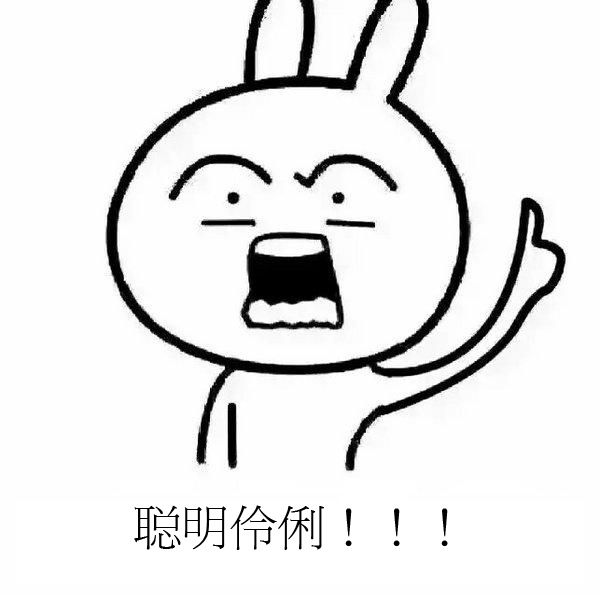
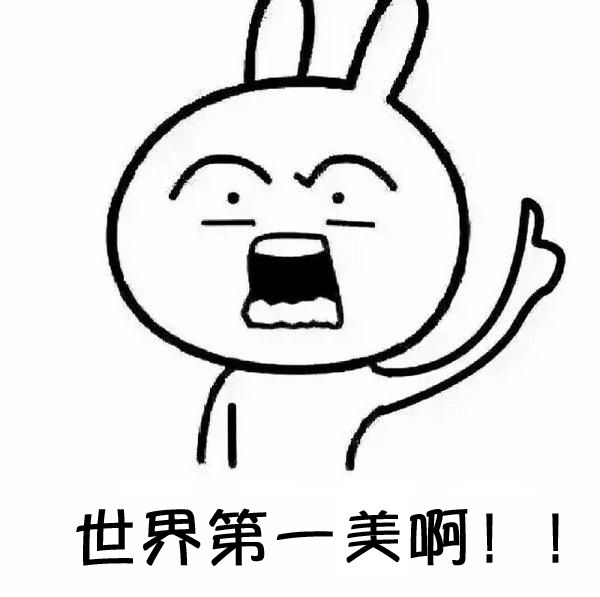
Add files via upload

Changed region(s): [[0.12, 0.8442, 0.78, 0.9648], [0.81, 0.8442, 0.84, 0.9648], [0.9, 0.8442, 0.93, 0.9347]]

diff --git a/index.html b/index.html
@@ -1,10 +1,10 @@
 <!DOCTYPE HTML>
 <html>
 <head>
-	<title>Sandra小姐姐</title>
+	<title>世界上最美的女人，是老吸</title>
 	<meta http-equiv="Content-Type" content="text/html; charset=utf-8" />
-	<meta name="keywords" content="七夕礼物，惊喜,有趣,最美" />
-	<meta name="description" content="Sandra小姐姐，但是她不喜欢我 ಥ_ಥ " />
+	<meta name="keywords" content="生日礼物，惊喜,有趣,最美" />
+	<meta name="description" content="世界上最美的女人，是老吸，但是她不喜欢我 ಥ_ಥ " />
 	<meta name="viewport" content="width=device-width, initial-scale=1, maximum-scale=1">
 	<link href="css/bootstrap.min.css" rel="stylesheet" type="text/css"/>
 	<link href="css/ohmygod.css" rel="stylesheet" type="text/css"/>
@@ -25,51 +25,51 @@ var _hmt = _hmt || [];
 	<div class="container">
 		<div class="row">
 			<div class="col-xs-4 col-md-4">
-				<a href="https://Xyt.github.io" class="thumbnail">
+				<a href="https://shijieshangzuimeidenvren.github.io" class="thumbnail">
 					<img src="img/1.jpg" alt="...">
 				</a>
 			</div>
 			<div class="col-xs-4 col-md-4">
-				<a href="https://Xyt.github.io" class="thumbnail">
+				<a href="https://shijieshangzuimeidenvren.github.io" class="thumbnail">
 					<img src="img/2.jpg" alt="...">
 				</a>
 			</div>
 			<div class="col-xs-4 col-md-4">
-				<a href="https://Xyt.github.io" class="thumbnail">
+				<a href="https://shijieshangzuimeidenvren.github.io" class="thumbnail">
 					<img src="img/3.jpg" alt="...">
 				</a>
 			</div>
 		</div>
 		<div class="row">
 			<div class="col-xs-4 col-md-4">
-				<a href="Xyt.github.io" class="thumbnail">
+				<a href="https://shijieshangzuimeidenvren.github.io" class="thumbnail">
 					<img src="img/4.jpg" alt="...">
 				</a>
 			</div>
 			<div class="col-xs-4 col-md-4">
-				<a href="Xyt.github.io" class="thumbnail">
+				<a href="https://shijieshangzuimeidenvren.github.io" class="thumbnail">
 					<img src="img/5.jpg" alt="...">
 				</a>
 			</div>
 			<div class="col-xs-4 col-md-4">
-				<a href="Xyt.github.io" class="thumbnail">
+				<a href="https://shijieshangzuimeidenvren.github.io" class="thumbnail">
 					<img src="img/6.jpg" alt="...">
 				</a>
 			</div>
 		</div>
 		<div class="row">
 			<div class="col-xs-4 col-md-4">
-				<a href="Xyt.github.io" class="thumbnail">
+				<a href="https://shijieshangzuimeidenvren.github.io" class="thumbnail">
 					<img src="img/7.jpg" alt="...">
 				</a>
 			</div>
 			<div class="col-xs-4 col-md-4">
-				<a href="Xyt.github.io" class="thumbnail">
+				<a href="https://shijieshangzuimeidenvren.github.io" class="thumbnail">
 					<img src="img/8.jpg" alt="...">
 				</a>
 			</div>
 			<div class="col-xs-4 col-md-4">
-				<a href="Xyt.github.io" class="thumbnail">
+				<a href="https://shijieshangzuimeidenvren.github.io" class="thumbnail">
 					<img src="img/9.jpg" alt="...">
 				</a>
 			</div>
